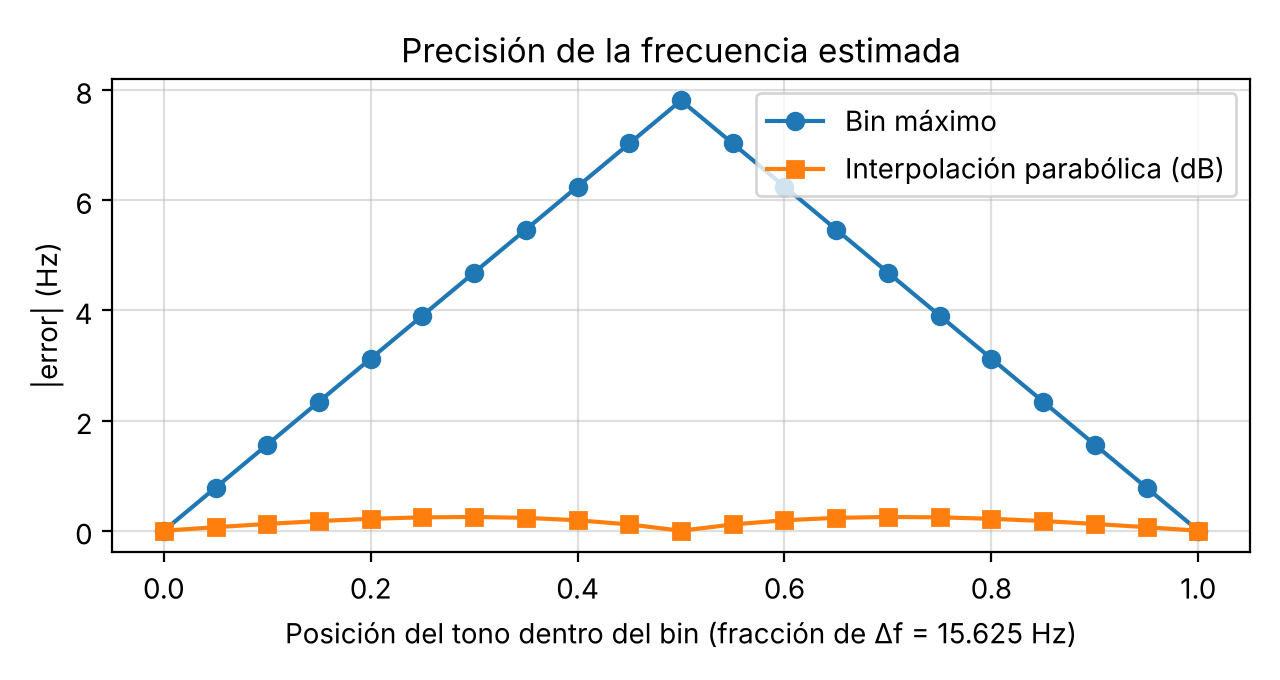
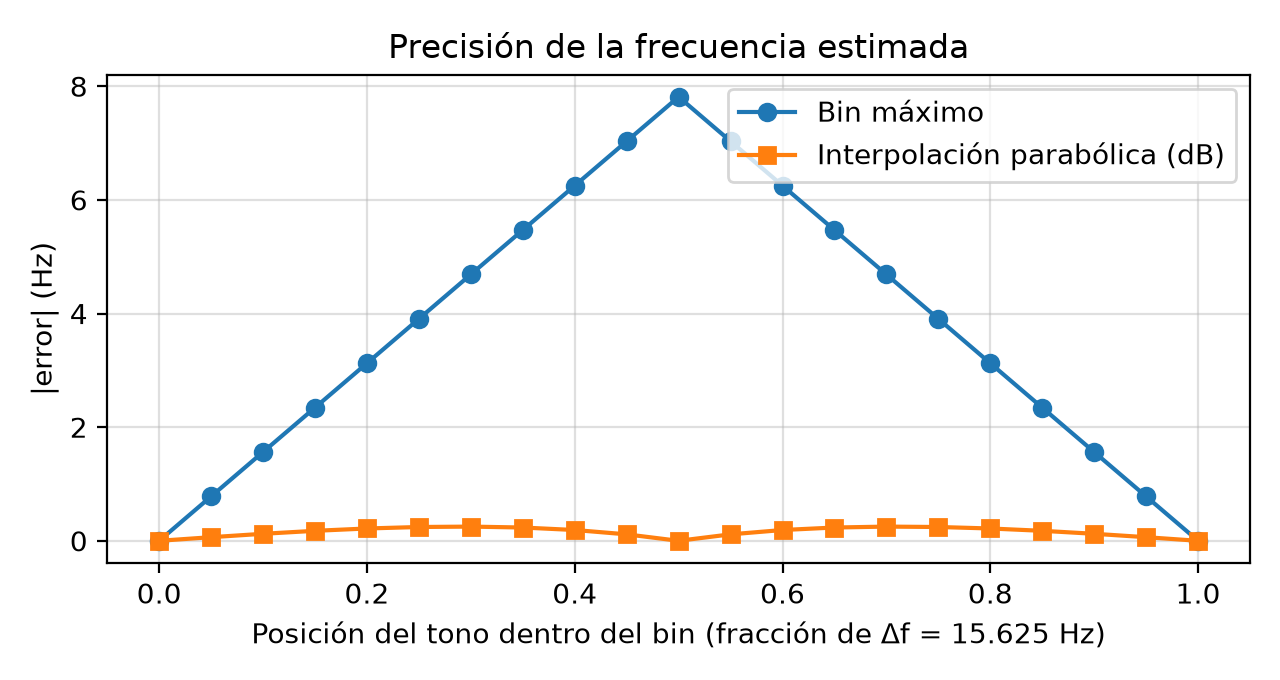
Readme actualizado y resultados nuevos

diff --git a/taller-fft-sys/receptor_fft/README.md b/taller-fft-sys/receptor_fft/README.md
@@ -24,18 +24,20 @@ del grupo; aquí están el código, las pruebas y las fuentes de los diagramas.
 | C3 Forma tonal | Ancho a −6 dB de 3 bins o menos |
 | C4 Persistencia | Presente en 3 de los últimos 4 bloques (histéresis: se mantiene con 2) |
 | C5 Clasificación | Útil (dentro de la banda útil), interferente o armónico |
-| C6 Tabla del emisor | Recibida si está a ±1 bin (15.6 Hz) de una frecuencia del emisor; si no, no esperada |
+| C6 Tabla del emisor | Recibida si está a ±1 bin (15.6 Hz) de una frecuencia del emisor; ausente si no aparece; no esperada si está fuera de la tabla y a menos de 40 dB del tono más fuerte |
 
 Parámetros: fs = 16 kHz, N = 1024 (Δf = 15.625 Hz), 50 % de solapamiento.
-La tabla del emisor está en `FRECUENCIAS_EMISOR` dentro de `src/receptor_fft.py`.
+Las tablas por modo del emisor (`emisor_esp32/senales.h`, comandos 1 a 4) están en `TABLAS_POR_MODO` dentro de `src/receptor_fft.py`.
 
 ## Uso
 
-Desde la raíz del repositorio (requiere los paquetes de `tarea1_grupo/requirements.txt`
-y los WAV de `tarea1_grupo/pruebas/`):
+Desde la carpeta `taller-fft-sys/` (requiere numpy, scipy y matplotlib):
 
     python -m receptor_fft.src.evaluar_receptor
     python -m unittest discover -s receptor_fft/tests -t . -v
+
+Si la carpeta `tarea1_grupo/` está junto a `taller-fft-sys/`, también se evalúan sus
+tres casos; si no, se omiten con un aviso.
 
 Para recompilar los diagramas:
 
